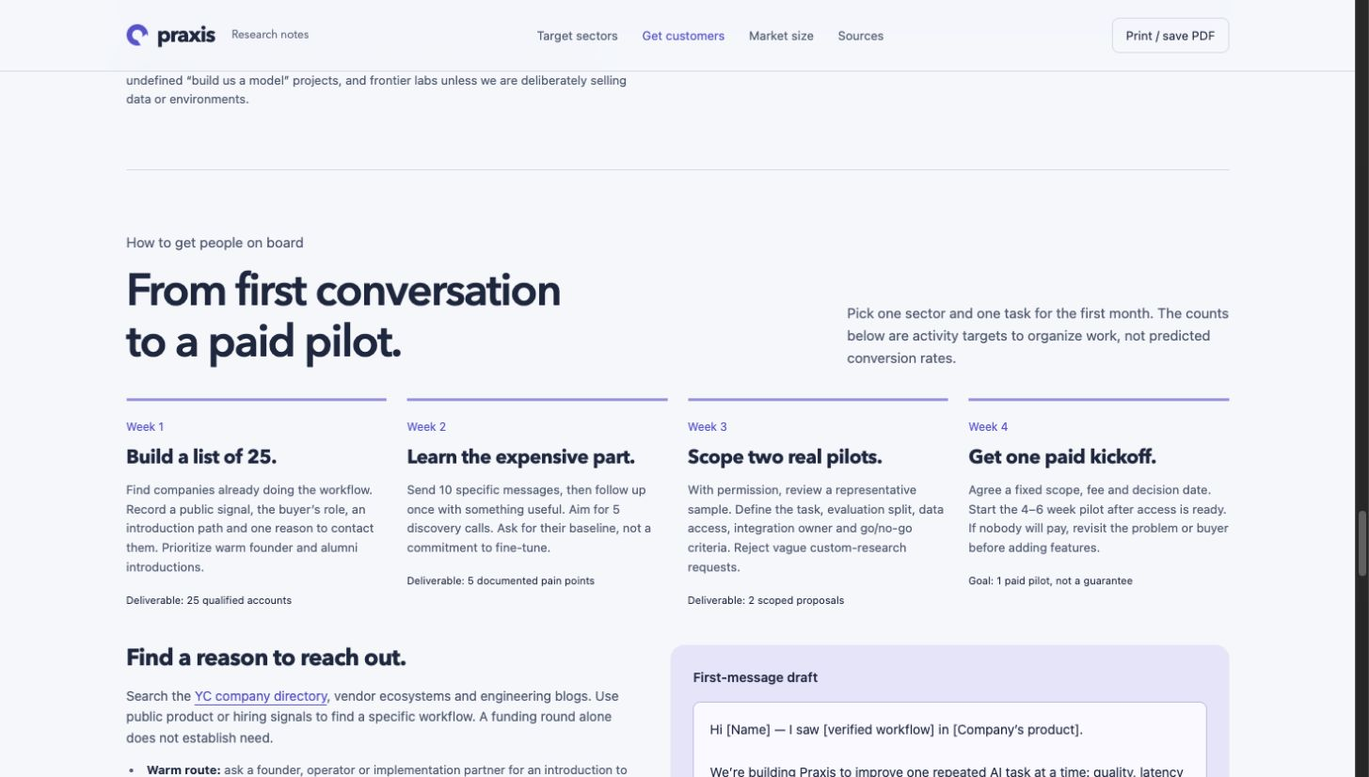
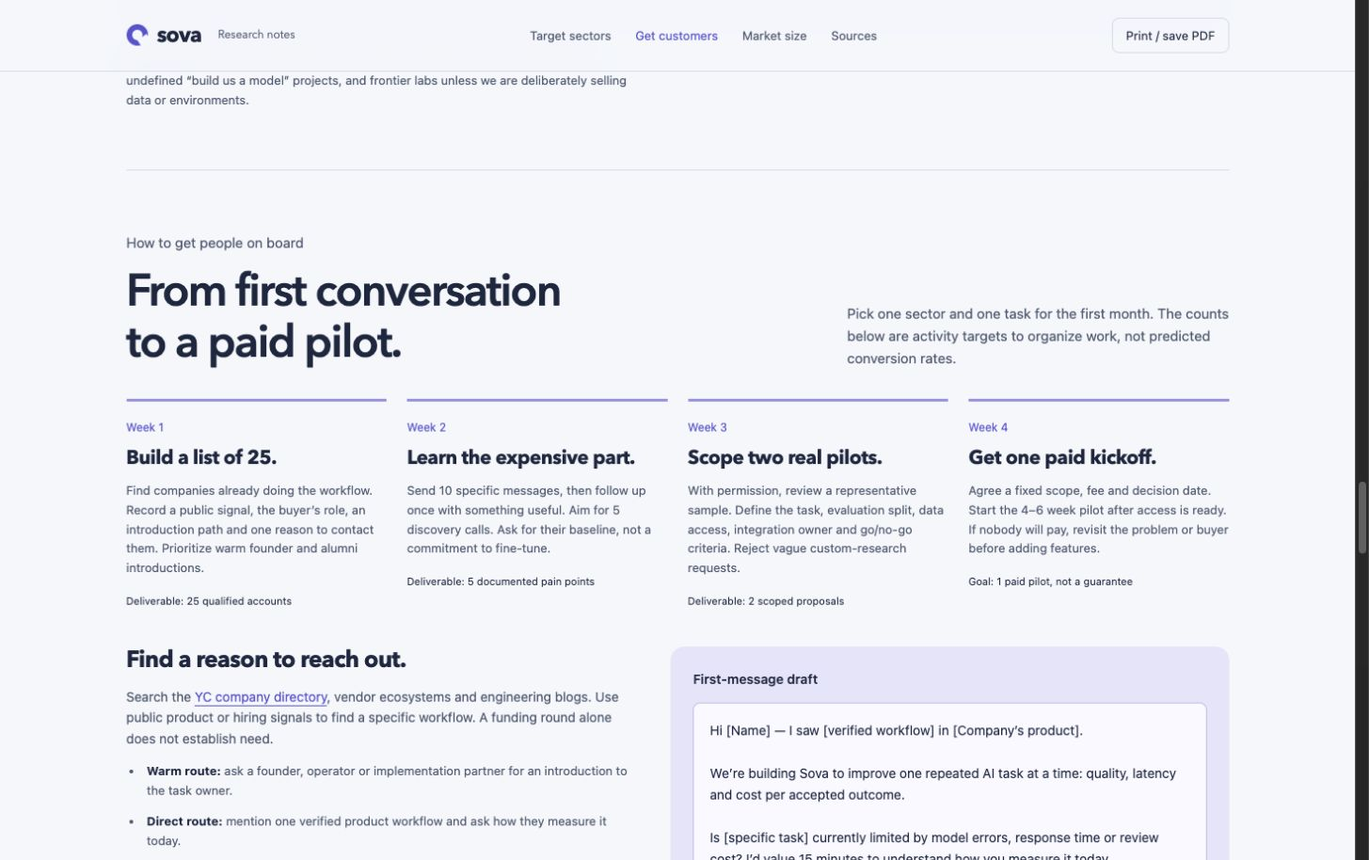
Correct research and outreach branding to Sova

diff --git a/Research/rl-post-training-2026-10-31/index.html b/Research/rl-post-training-2026-10-31/index.html
@@ -3,7 +3,7 @@
 <head>
 <meta charset="utf-8"><meta name="viewport" content="width=device-width, initial-scale=1">
 <meta name="description" content="A founder's research brief on custom AI models: customers, post-training, market size and unit economics.">
-<title>Praxis — The custom-model opportunity</title>
+<title>Sova — The custom-model opportunity</title>
 <style>
 :root{--paper:#f6f8fc;--white:#fff;--ink:#202b49;--muted:#5a657d;--accent:#6657d5;--lilac:#e9e7fa;--mint:#d6eadf;--peach:#f3ded2;--line:#d9deea;--display:'Avenir Next','Segoe UI',sans-serif;--body:-apple-system,BlinkMacSystemFont,'Segoe UI',sans-serif}
 *{box-sizing:border-box}html{scroll-behavior:smooth;scroll-padding-top:100px}body{margin:0;background:var(--paper);color:var(--ink);font-family:var(--body);font-size:16px;line-height:1.6}button,input,select{font:inherit}button,a,input,select{-webkit-tap-highlight-color:transparent}a{color:var(--accent);text-underline-offset:4px}a:hover{text-decoration-thickness:2px}button{cursor:pointer}button:focus-visible,a:focus-visible,input:focus-visible,select:focus-visible,summary:focus-visible{outline:3px solid var(--accent);outline-offset:4px}button{color:inherit}h1,h2,h3,h4,p{margin:0}h1,h2,h3,h4{font-family:var(--display);line-height:1.14}h1{font-size:clamp(46px,5.7vw,80px);font-weight:600;letter-spacing:-3.4px}h2{font-size:clamp(32px,3.4vw,48px);font-weight:600;letter-spacing:-1.7px}h3{font-size:25px;letter-spacing:-.7px}h4{font-size:18px}p{max-width:68ch}svg{display:block;max-width:100%}.wrap{max-width:1272px;padding:0 44px;margin:auto}.skip{position:absolute;top:-80px;left:10px;background:white;padding:12px;z-index:100}.skip:focus{top:8px}.topbar{position:sticky;top:0;z-index:20;background:rgba(246,248,252,.96);border-bottom:1px solid var(--line);backdrop-filter:blur(15px)}.nav{height:76px;display:flex;align-items:center;justify-content:space-between;gap:24px}.brand{display:flex;align-items:center;gap:10px;text-decoration:none;color:var(--ink);font-family:var(--display);font-size:23px;font-weight:650;letter-spacing:-1px}.brand-mark{width:23px;height:23px;border:6px solid var(--accent);border-radius:50%;position:relative}.brand-mark:after{content:'';position:absolute;right:-8px;bottom:-5px;background:var(--paper);width:12px;height:9px;transform:rotate(-35deg)}.navlinks{display:flex;gap:26px}.navlinks a{font-size:13px;color:var(--muted);text-decoration:none}.navlinks a:hover{color:var(--accent)}.quiet-btn{background:transparent;border:1px solid var(--line);border-radius:8px;padding:8px 14px;font-size:13px}.quiet-btn:hover{background:var(--lilac)}.meta{font-size:13px;color:var(--muted)}.hero{padding:68px 0 42px}.hero-top{display:flex;justify-content:space-between;gap:16px;margin-bottom:30px}.hero-grid{display:grid;grid-template-columns:1.03fr 1fr;gap:52px;align-items:center}.hero-copy>p{font-size:18px;color:var(--muted);line-height:1.65;margin-top:25px;max-width:440px}.hero-link{display:inline-flex;margin-top:28px;background:var(--ink);color:white;padding:12px 20px;text-decoration:none;border-radius:8px;font-size:14px}.hero-link:hover{background:var(--accent)}.hero-art{background:var(--lilac);border-radius:24px;padding:25px 22px 18px;overflow:hidden}.art-top{display:flex;justify-content:space-between;align-items:center;gap:15px;margin-bottom:10px}.art-top span:first-child{font-weight:600;font-size:14px}.pill{display:inline-block;background:white;color:var(--accent);border-radius:20px;font-size:11px;padding:4px 10px}.art-foot{font-size:12px;color:#535b79;line-height:1.5;margin-top:5px}.thesis{display:grid;grid-template-columns:190px 1fr;gap:34px;border-top:1px solid var(--line);margin-top:44px;padding-top:22px}.thesis strong{font-size:13px;color:var(--accent);font-weight:600}.thesis p{font-size:19px;line-height:1.5;max-width:780px}.section{padding:65px 0;border-top:1px solid var(--line);scroll-margin-top:82px}.section-head{display:flex;justify-content:space-between;align-items:flex-end;gap:32px;margin-bottom:32px}.section-head p{font-size:15px;color:var(--muted);max-width:410px}.section-kicker{font-size:13px;color:var(--accent);margin-bottom:14px}.references{display:grid;grid-template-columns:repeat(3,1fr);gap:0;background:white;border:1px solid var(--line);border-radius:16px;overflow:hidden}.reference{padding:28px}.reference+.reference{border-left:1px solid var(--line)}.reference h3{margin-bottom:5px}.reference .sub{font-size:13px;color:var(--accent);margin-bottom:20px}.reference p{font-size:14px;color:var(--muted)}.reference .lesson{margin-top:20px;padding-top:18px;border-top:1px solid var(--line);color:var(--ink)}.reference>a{font-size:12px;display:inline-block;margin-top:18px}.small-note{font-size:12px;color:var(--muted);line-height:1.6;margin-top:15px}.buyer-shell{display:grid;grid-template-columns:290px 1fr;gap:35px}.buyer-tabs{display:flex;flex-direction:column;gap:8px}.buyer-tab{border:1px solid transparent;text-align:left;padding:17px 18px;border-radius:10px;background:transparent}.buyer-tab strong{display:block;font-size:15px;font-weight:600}.buyer-tab span{font-size:12px;display:block;color:var(--muted);margin-top:3px}.buyer-tab[aria-pressed=true]{background:var(--ink);color:white}.buyer-tab[aria-pressed=true] span{color:#cdd4e6}.buyer-tab:hover:not([aria-pressed=true]){background:white;border-color:var(--line)}.buyer-panel{background:white;border:1px solid var(--line);border-radius:18px;padding:30px;min-height:470px}.buyer-panel .position{font-size:12px;color:var(--accent);margin-bottom:10px}.buyer-panel h3{font-size:30px;max-width:560px}.buyer-summary{font-size:15px;color:var(--muted);margin:14px 0 25px}.buyer-details{display:grid;grid-template-columns:1fr 1fr;gap:24px 34px}.detail-label{font-size:12px;color:var(--muted);margin-bottom:5px}.buyer-details p:not(.detail-label){font-size:14px;line-height:1.55}.buyer-bottom{background:#eef3f0;border-radius:9px;padding:15px 18px;font-size:13px;margin-top:26px}.filter-note{display:flex;gap:12px;align-items:flex-start;padding:20px 0 0;font-size:13px;color:var(--muted)}.filter-note strong{color:var(--ink);white-space:nowrap}.market{background:white;border:1px solid var(--line);border-radius:20px;padding:30px}.scenario-top{display:flex;align-items:center;justify-content:space-between;gap:20px;margin-bottom:24px}.warning-label{display:flex;align-items:center;gap:8px;font-size:12px;color:#635325}.warning-label:before{content:'';width:7px;height:7px;border-radius:50%;background:#b19a54}.presets{display:flex;gap:5px;padding:4px;background:var(--paper);border:1px solid var(--line);border-radius:9px}.presets button{font-size:12px;background:transparent;border:0;border-radius:5px;padding:6px 12px}.presets button[aria-pressed=true]{background:white;color:var(--accent);box-shadow:0 1px 4px #202b4915}.market-grid{display:grid;grid-template-columns:310px 1fr;gap:45px}.controls{display:flex;flex-direction:column;gap:22px}.control label{display:block;font-size:13px;font-weight:500}.control .label-line{display:flex;justify-content:space-between;align-items:center;gap:12px}.control output{font-variant-numeric:tabular-nums;color:var(--accent);font-size:14px;font-weight:600}.control input[type=range]{width:100%;accent-color:var(--accent);height:24px;cursor:pointer;margin:8px 0 0}.control small{display:block;font-size:11px;color:var(--muted);line-height:1.5}.market-results{min-width:0}.tam-total{display:flex;align-items:baseline;gap:13px}.tam-total strong{font-family:var(--display);font-size:60px;line-height:1.15;font-weight:600;letter-spacing:-2px;font-variant-numeric:tabular-nums}.tam-total span{font-size:13px;color:var(--muted)}.formula{color:var(--muted);font-size:12px;margin-top:5px}.market-results svg{width:100%;height:auto;margin:14px 0 3px}.metrics{display:grid;grid-template-columns:1fr 1fr;gap:20px}.metric{border-top:1px solid var(--line);padding-top:15px}.metric>span{font-size:12px;color:var(--muted);display:block}.metric strong{font-family:var(--display);font-size:29px;font-weight:600;letter-spacing:-.7px}.metric small{font-size:11px;color:var(--muted);display:block}.market-footer{display:flex;justify-content:space-between;align-items:center;gap:20px;border-top:1px solid var(--line);padding-top:22px;margin-top:24px}.market-footer p{font-size:12px;max-width:610px;color:var(--muted)}.actions{display:flex;gap:8px;flex-shrink:0}.text-btn{font-size:12px;border:0;background:transparent;padding:5px;color:var(--accent);text-decoration:underline;text-underline-offset:4px}.anchor-row{display:grid;grid-template-columns:190px 190px 1fr;gap:28px;margin-top:25px;padding:24px 0}.anchor-num{font-size:30px;font-family:var(--display);font-weight:500;letter-spacing:-1px}.anchor-row p{font-size:12px;color:var(--muted)}.anchor-explain{border-left:1px solid var(--line);padding-left:28px}.anchor-explain strong{font-size:13px;font-weight:600}.validation{font-size:13px;color:var(--muted);border-top:1px solid var(--line);padding-top:18px}.validation strong{color:var(--ink)}.economics-grid{display:grid;grid-template-columns:1.1fr .9fr;gap:40px;align-items:start}.chart-box{background:#edf2f4;border-radius:18px;padding:25px}.chart-label{display:flex;justify-content:space-between;align-items:center;font-size:12px;color:var(--muted)}.chart-box svg{width:100%;margin-top:18px}.econ-form{display:grid;grid-template-columns:1fr 1fr;gap:20px}.econ-field label{display:block;font-size:12px;color:var(--muted);margin-bottom:7px}.econ-field input{width:100%;border:1px solid var(--line);background:white;border-radius:8px;padding:11px 12px;color:var(--ink);font-size:16px}.break-even{grid-column:1/-1;border-top:1px solid var(--line);padding-top:20px}.break-even strong{font-size:36px;line-height:1.25;font-family:var(--display);font-weight:600;letter-spacing:-1px;display:block}.break-even span{display:block;font-size:13px;color:var(--muted);margin-top:7px}.econ-notes{font-size:12px;color:var(--muted);margin-top:20px}.offer{display:grid;grid-template-columns:1fr 1.4fr;background:var(--lilac);border-radius:20px;overflow:hidden}.offer-copy{padding:32px}.offer-copy h3{font-size:31px;max-width:300px}.offer-copy p{font-size:14px;color:var(--muted);margin-top:15px}.offer-steps{background:#f0effa;padding:30px 35px}.offer-step{display:grid;grid-template-columns:26px 1fr;gap:18px;padding:15px 0}.offer-step+.offer-step{border-top:1px solid #d4d0ed}.step-no{color:var(--accent);font-size:14px}.offer-step h4{font-size:16px;margin-bottom:5px}.offer-step p{font-size:13px;color:var(--muted)}.bad-fit{margin-top:22px;font-size:13px;color:var(--muted)}.bad-fit strong{color:var(--ink)}.funding-table{width:100%;border-collapse:collapse;text-align:left;font-size:14px}.funding-table th{color:var(--muted);font-weight:400;font-size:12px;border-bottom:1px solid var(--line);padding:12px 18px 12px 0}.funding-table td{padding:20px 22px 20px 0;border-bottom:1px solid var(--line);vertical-align:top}.funding-table td:nth-child(2){font-size:23px;font-family:var(--display);white-space:nowrap}.funding-table small{display:block;font-size:11px;color:var(--muted)}.funding-table td:first-child{font-weight:600;width:23%}.funding-table td:last-child{color:var(--muted)}details{border-top:1px solid var(--line);padding:17px 0}summary{cursor:pointer;font-size:15px;font-weight:500}details p{font-size:13px;margin-top:12px;color:var(--muted)}.source-list{display:grid;grid-template-columns:1fr 1fr;gap:10px 30px;margin-top:15px;font-size:13px}.source-list a{display:block}.source-list small{color:var(--muted);font-size:11px}.footer{border-top:1px solid var(--line);padding:25px 0 35px;color:var(--muted);font-size:12px}.footer .wrap{display:flex;justify-content:space-between;gap:20px}.toast{position:fixed;bottom:22px;left:50%;transform:translateX(-50%);padding:12px 20px;border-radius:9px;background:var(--ink);color:white;font-size:13px;z-index:50;max-width:90vw;box-shadow:0 6px 25px #202b4920}.toast[hidden]{display:none}.table-scroll{overflow:auto}noscript p{background:var(--peach);padding:15px}
@@ -25,7 +25,7 @@
 </head>
 <body>
 <a class="skip" href="#main">Skip to content</a>
-<header class="topbar"><div class="wrap nav"><a class="brand" href="#main" aria-label="Praxis research home"><span class="brand-mark" aria-hidden="true"></span>praxis<span style="font-size:12px;font-weight:400;letter-spacing:0;color:var(--muted);margin-left:8px">Research notes</span></a><nav class="navlinks" aria-label="Page sections"><a href="#sectors">Target sectors</a><a href="#onboard">Get customers</a><a href="#market">Market size</a><a href="#sources">Sources</a></nav><button class="quiet-btn" id="print">Print / save PDF</button></div></header>
+<header class="topbar"><div class="wrap nav"><a class="brand" href="#main" aria-label="Sova research home"><span class="brand-mark" aria-hidden="true"></span>sova<span style="font-size:12px;font-weight:400;letter-spacing:0;color:var(--muted);margin-left:8px">Research notes</span></a><nav class="navlinks" aria-label="Page sections"><a href="#sectors">Target sectors</a><a href="#onboard">Get customers</a><a href="#market">Market size</a><a href="#sources">Sources</a></nav><button class="quiet-btn" id="print">Print / save PDF</button></div></header>
 <main id="main" class="wrap">
 <noscript><p>Enable JavaScript to explore customer profiles and change the market and payback assumptions. The default scenario and research remain readable below.</p></noscript>
 <section class="hero">
@@ -74,7 +74,7 @@
 <div class="launch-plan"><article><p class="plan-week">Week 1</p><h3>Build a list of 25.</h3><p>Find companies already doing the workflow. Record a public signal, the buyer’s role, an introduction path and one reason to contact them. Prioritize warm founder and alumni introductions.</p><span>Deliverable: 25 qualified accounts</span></article><article><p class="plan-week">Week 2</p><h3>Learn the expensive part.</h3><p>Send 10 specific messages, then follow up once with something useful. Aim for 5 discovery calls. Ask for their baseline, not a commitment to fine-tune.</p><span>Deliverable: 5 documented pain points</span></article><article><p class="plan-week">Week 3</p><h3>Scope two real pilots.</h3><p>With permission, review a representative sample. Define the task, evaluation split, data access, integration owner and go/no-go criteria. Reject vague custom-research requests.</p><span>Deliverable: 2 scoped proposals</span></article><article><p class="plan-week">Week 4</p><h3>Get one paid kickoff.</h3><p>Agree a fixed scope, fee and decision date. Start the 4–6 week pilot after access is ready. If nobody will pay, revisit the problem or buyer before adding features.</p><span>Goal: 1 paid pilot, not a guarantee</span></article></div>
 <div class="outreach-grid"><div><h3>Find a reason to reach out.</h3><p class="outreach-intro">Search the <a href="https://www.ycombinator.com/companies" target="_blank" rel="noopener">YC company directory</a>, vendor ecosystems and engineering blogs. Use public product or hiring signals to find a specific workflow. A funding round alone does not establish need.</p><ul class="discovery-list"><li><strong>Warm route:</strong> ask a founder, operator or implementation partner for an introduction to the task owner.</li><li><strong>Direct route:</strong> mention one verified product workflow and ask how they measure it today.</li><li><strong>Proof route:</strong> share a reproducible benchmark with its limitations. Do not claim Rig results until it has been run and evaluated.</li><li><strong>Partner route:</strong> work with agencies or integrators already trusted by the buyer. Agree scope and responsibilities before customer delivery.</li></ul><a class="quiet-btn tracker-link" href="prospect-tracker.csv" download>Download prospect tracker</a> <a class="tracker-link" href="#video-outreach">Plan your outreach video →</a></div><div class="message-box"><label for="outreach-draft">First-message draft</label><textarea id="outreach-draft" rows="11" spellcheck="true">Hi [Name] — I saw [verified workflow] in [Company’s product].
 
-We’re building Praxis to improve one repeated AI task at a time: quality, latency and cost per accepted outcome.
+We’re building Sova to improve one repeated AI task at a time: quality, latency and cost per accepted outcome.
 
 Is [specific task] currently limited by model errors, response time or review cost? I’d value 15 minutes to understand how you measure it today.
 
@@ -86,8 +86,8 @@ If there’s a fit, we can scope a paid benchmark-and-adaptation pilot against y
 <div class="section-head"><div><p class="section-kicker">Founder-led outreach</p><h2>One workflow.<br>One useful video.</h2></div><p>Start with support-agent SaaS. Speak to the founder, CTO or AI lead. Show a specific experiment they can judge in 90 seconds.</p></div>
 <p>Our starting hypothesis: ten researched accounts, three personalized videos, then revise the pitch from what people actually say. Prioritize a repeated task, a reachable owner, usable examples and a measurable reason to improve.</p>
 <div class="video-board" aria-label="Video storyboard"><article class="video-beat"><span>00–15 seconds</span><h3>Their workflow</h3><p>Show one feature on their public product page. Explain why you picked it.</p></article><article class="video-beat"><span>15–35 seconds</span><h3>Three cases</h3><p>Draw routine, ambiguous and must-escalate examples. Label them illustrative.</p></article><article class="video-beat"><span>35–65 seconds</span><h3>The experiment</h3><p>Compare the baseline and candidate on accepted quality, latency and total cost.</p></article><article class="video-beat"><span>65–90 seconds</span><h3>One small ask</h3><p>Ask whether this is a priority and offer 15 minutes with the workflow owner.</p></article></div>
-<div class="video-script"><h3>What to say on camera</h3><p>Hey [Name], I’m Ani, building Praxis. I saw that [Company] handles [specific workflow], and I put together one idea for that part of the product.</p><p>On this board are three illustrative cases: a routine request, an ambiguous one, and one that should go to a human. These are examples I made—not results from your system.</p><p>The question I’d test is whether a smaller specialist model can handle the routine cases while preserving quality and escalating the rest. I’d compare it with your existing setup and a simpler prompt or routing change, measuring accepted outcomes, latency and total cost including review.</p><p>If you have corrected examples, fine-tuning could be worth testing. For a multi-step task with a reliable success check, we could assess RL. We’d choose after establishing the baseline.</p><p>Is this workflow painful enough to explore? If so, would you be open to a 15-minute call with whoever owns it?</p></div>
-<p class="small-note">Put “Illustrative examples · benchmark not run” on the board. This is a proposed experiment; no Praxis performance improvement has been measured for this outreach.</p>
+<div class="video-script"><h3>What to say on camera</h3><p>Hey [Name], I’m Ani, building Sova. We’re building specialist models for recurring business workflows, with customer-owned weights and deployment on infrastructure you control. I saw that [Company] handles [specific workflow], and I put together one experiment for that part of the product.</p><p>On this board are three illustrative cases: a routine request, an ambiguous one, and one that should go to a human. These are examples I made—not results from your system.</p><p>The question I’d test is whether a smaller specialist model can handle the routine cases while preserving quality and escalating the rest. I’d compare it with your existing setup and a simpler prompt or routing change, measuring accepted outcomes, latency and total cost including review.</p><p>If you have corrected examples, fine-tuning could be worth testing. For a multi-step task with a reliable success check, we could assess RL. We’d choose after establishing the baseline.</p><p>Is this workflow painful enough to explore? If so, would you be open to a 15-minute call with whoever owns it?</p></div>
+<p class="small-note">Put “Illustrative examples · benchmark not run” on the board. This is a proposed experiment; no Sova performance improvement has been measured for this outreach.</p>
 <details class="video-examples"><summary>Three companies to research, and the angle for each</summary><ul class="discovery-list"><li><strong><a href="https://www.eesel.ai/" target="_blank" rel="noopener">eesel AI</a> — support agents:</strong> its site describes ticket categorization, replies and escalation. Explore one intent-and-escalation evaluation with a technical owner.</li><li><strong><a href="https://www.kapa.ai/" target="_blank" rel="noopener">Kapa</a> — knowledge and support agents:</strong> explore how retrieval failures, answer grounding and abstention are measured. Establish whether adaptation would address the actual problem.</li><li><strong><a href="https://nanonets.com/" target="_blank" rel="noopener">Nanonets</a> — document workflows:</strong> discuss one document family, field correctness and exception review with the relevant ML or product lead.</li></ul><p class="small-note">Public workflow relevance only. These are not qualified leads or confirmed buyers. Established model teams may have little need for outside help; ask about a specific gap. Product sources checked 31 October 2026.</p></details>
 <details><summary>The message to send with the video</summary><p>Hey [Name] — I saw [specific public feature] and recorded a 75-second walkthrough of one evaluation I’d try: [link]. It covers [task] and what we’d measure before deciding whether a specialist model is worthwhile. Is this on your roadmap, or does someone else own it?</p></details>
 <details><summary>What happens after they reply?</summary><p>Ask which metric hurts, who owns it and what volumes they see. Use a short fit call to establish economics and data access, then scope a paid diagnostic or pilot. If there is no reply, follow up once after roughly 4–5 business days with an actual useful artifact. Stop if there is no interest.</p></details>
@@ -95,7 +95,7 @@ If there’s a fit, we can scope a paid benchmark-and-adaptation pilot against y
 </section>
 <section class="section" id="funding"><div class="section-head"><div><p class="section-kicker">Capital behind the category</p><h2>Funding is a signal.<br>The business models differ.</h2></div><p>Selected announcements from the research. They support interest in the stack, not a valuation or revenue forecast for us.</p></div><div class="table-scroll"><table class="funding-table"><thead><tr><th scope="col">Company</th><th scope="col">Announced financing</th><th scope="col">What it is building</th></tr></thead><tbody><tr><td><a href="https://www.appliedcompute.com/company/fundraise" target="_blank" rel="noopener">Applied Compute</a><small>8 April 2026</small></td><td>$80M<small>New financing</small></td><td>Enterprise-specific agents trained on company workflows, with deployment and continued improvement.</td></tr><tr><td><a href="https://bespokelabs.ai/blog/bespoke-labs-raises-40m-to-build-environments-that-enable-reliable-agents" target="_blank" rel="noopener">Bespoke Labs</a><small>6 July 2026</small></td><td>$40M<small>Seed + Series A combined</small></td><td>Data curation, post-training and RL environments; a mix of research, infrastructure and enterprise work.</td></tr><tr><td><a href="https://primeintellect.one/blog/series-a" target="_blank" rel="noopener">Prime Intellect</a><small>8 July 2026</small></td><td>$130M<small>Series A</small></td><td>Compute and infrastructure for custom models, RL, evaluation and deployment.</td></tr></tbody></table></div><p class="small-note">Do not add valuations, cumulative totals and new rounds together. This selected financing table does not measure TAM.</p></section>
 <section class="section" id="sources"><div class="section-head"><div><p class="section-kicker">Evidence & open questions</p><h2>Keep the claims traceable.</h2></div><p>Company descriptions and research are sourced. Our customer prioritization, price hypotheses and editable scenarios are analysis.</p></div><details open><summary>Primary sources</summary><div class="source-list"><div><a href="https://www.dvarlabs.ai/" target="_blank" rel="noopener">Dvar: approach and deployment</a><small>Company positioning; banking example is supervised training.</small></div><div><a href="https://hyde.ai/" target="_blank" rel="noopener">Hyde: Campfire and embedded teams</a><small>Company product description, not independent performance validation.</small></div><div><a href="https://isoquant.ai/companies" target="_blank" rel="noopener">Isoquant: workload optimization</a><small>Specialists, model engineering and serving.</small></div><div><a href="https://menlovc.com/perspective/2025-the-state-of-generative-ai-in-the-enterprise/" target="_blank" rel="noopener">Menlo: 2025 enterprise AI report</a><small>Broad spending estimates; not this business’s TAM.</small></div><div><a href="https://arxiv.org/abs/2305.18290" target="_blank" rel="noopener">Direct Preference Optimization</a><small>Preference learning differs from an online RL loop.</small></div><div><a href="https://arxiv.org/html/2501.12948v1" target="_blank" rel="noopener">DeepSeek-R1 technical report</a><small>SFT and RL can be stages in the same post-training pipeline.</small></div></div></details><details><summary>What still needs customer evidence?</summary><p>The eligible buyer count, annual contract value, delivery effort, renewal rate and fully loaded savings. No customer pipeline, audited vendor margins or standalone custom-model TAM has been established here. The year-three capacity scenario is an annual revenue level, not cumulative sales.</p></details><details><summary>How should we defend this against alternatives?</summary><p>Compare against a better prompt, retrieval, a cheaper API, an existing fine-tuning platform and an internal ML team. Our proposed advantage must be repeatable evaluation, domain data access, delivery speed or deployment economics. Access to an open model alone is not enough.</p></details><details><summary>Open the complete research pack</summary><p><a href="DEEP_DIVE.md">Business and technical deep dive</a> · <a href="COMPANIES.md">Company diligence</a> · <a href="TWEETS.md">Tweet drafts</a> · <a href="facts.csv" download>Fact ledger CSV</a> · <a href="BOARDS.md">Paper-chart plans</a></p></details></section>
-</main><footer class="footer"><div class="wrap"><p>Praxis / Founder research / 31 October 2026</p><p>Research brief. Scenarios are illustrative. No financial forecast implied.</p></div></footer><div class="toast" id="toast" role="status" hidden></div>
+</main><footer class="footer"><div class="wrap"><p>Sova / Founder research / 31 October 2026</p><p>Research brief. Scenarios are illustrative. No financial forecast implied.</p></div></footer><div class="toast" id="toast" role="status" hidden></div>
 <script>
 (()=>{'use strict';
 const $=id=>document.getElementById(id), number=n=>new Intl.NumberFormat('en-US').format(n), currency=n=>'$'+number(n);
@@ -104,15 +104,15 @@ let toastTimer;function toast(message){$('toast').textContent=message;$('toast')
 const profiles={saas:{position:'Best first wedge • our recommendation',title:'Their model bill grows with every customer.',summary:'AI software vendors doing support, document processing or search already have recurring tasks. Improve one step inside their product.',owner:'CTO or VP Engineering; head of AI as the technical champion.',product:'A specialist model, evaluation suite, serving endpoint and ongoing improvement.',trigger:'Inference cost is hurting margins, latency blocks adoption, or the current model fails a repeatable task.',data:'Usable task examples, representative traffic, rights to use the data and a clear success metric.',proof:'Lower fully loaded cost per accepted task, at the agreed quality and p95 latency.'},ops:{position:'Second wedge • prove operational impact',title:'Every manual handoff has a cost.',summary:'Support platforms, BPOs and internal operations teams can buy better routing, extraction and policy decisions. The workflow owner matters as much as the ML team.',owner:'Head of Operations or Customer Support, with an engineering owner for integration.',product:'A model integrated into the existing queue or document workflow, with escalation to humans.',trigger:'High rework, routing errors, manual review costs or a backlog that current automation cannot handle.',data:'Resolved cases, labels, policy versions, exception records and an agreed review process.',proof:'Fewer manual touches and lower cost per resolved case, with error and escalation rates visible.'},finance:{position:'Selective entry • domain access is essential',title:'Generic answers miss domain-specific details.',summary:'Fintech product teams and financial-service operations can need intent routing, document extraction or credit-document analysis. Start with assistive, bounded work.',owner:'Head of AI or CTO plus the operations sponsor; security and risk teams influence approval.',product:'A domain specialist with traceable evaluation, controlled deployment and human review for exceptions.',trigger:'Domain or language errors, expensive document processing, or customer requirements for local/private deployment.',data:'Representative documents, authorized data use, expert grading and clear boundaries for automated decisions.',proof:'Domain-specific acceptance on a held-out set, plus integration and deployment requirements satisfied.'},enterprise:{position:'Expansion path • heavier delivery work',title:'They want control over a critical workflow.',summary:'Large enterprises may buy a combination of specialist models, integration and private deployment. Expect customer-specific systems and approval requirements.',owner:'CIO, CTO or Head of AI; a business-unit owner must fund the use case.',product:'An embedded delivery engagement followed by a managed model and improvement contract.',trigger:'A strategic workflow cannot meet quality, ownership or deployment needs with the current stack.',data:'An accountable sponsor, a data-access path, experts, infrastructure access and measurable business value.',proof:'An operational result that survives security review and ongoing support costs, not just a benchmark.'},labs:{position:'Adjacent market • a different product',title:'They buy capability-building inputs.',summary:'Frontier labs can buy expert tasks, verifiers and RL environments. That is closer to a data or environment business than the enterprise specialist-model offer.',owner:'Post-training researchers, data leads or research procurement.',product:'Accepted datasets, task suites, reproducible environments or specialized evaluation work.',trigger:'A capability gap or training campaign needs high-quality tasks the lab does not already have.',data:'Expert access, rigorous QA, reproducibility and evidence that tasks transfer beyond the training environment.',proof:'Acceptance rate, repeat orders and held-out capability gains. Treat buyer concentration as a business constraint.'}};
 document.querySelectorAll('[data-buyer]').forEach(btn=>btn.addEventListener('click',()=>{document.querySelectorAll('[data-buyer]').forEach(b=>b.setAttribute('aria-pressed',String(b===btn)));const p=profiles[btn.dataset.buyer];['position','title','summary','owner','product','trigger','data'].forEach(key=>$('buyer-'+key).textContent=p[key]);$('buyer-proof').replaceChildren(Object.assign(document.createElement('strong'),{textContent:'Proof that wins the pilot: '}),document.createTextNode(p.proof));}));
 const keys=['buyers','acv','reachable','capacity'];const presets={narrow:[500,60000,20,8],focused:[2500,120000,20,12],broad:[10000,180000,25,30]};let model;
-function marketUpdate(persist=true){const [buyers,acv,reachable,capacity]=keys.map(k=>Number($(k).value));const serviceable=Math.floor(buyers*reachable/100),active=Math.min(capacity,serviceable),tam=buyers*acv,sam=serviceable*acv,som=active*acv;model={buyers,acv,reachable,capacity,serviceable,active,tam,sam,som};$('buyers-out').textContent=number(buyers);$('acv-out').textContent=currency(acv);$('reachable-out').textContent=reachable+'%';$('capacity-out').textContent=number(capacity);$('tam-value').textContent=short(tam);$('tam-formula').textContent=number(buyers)+' companies × '+currency(acv)+' / year';['tam','sam','som'].forEach(k=>{$(k+'-chart-value').textContent=short(model[k]);$(k+'-value').textContent=short(model[k]);$(k+'-bar').setAttribute('width',390*model[k]/tam)});$('sam-detail').textContent=number(serviceable)+' companies fit the serviceable scope';$('som-detail').textContent=number(active)+' active customers'+(active<capacity?' (capped at serviceable market)':' at the same annual fee');document.querySelectorAll('[data-preset]').forEach(b=>b.setAttribute('aria-pressed',String(presets[b.dataset.preset].every((v,i)=>v===Number($(keys[i]).value)))));if(persist){try{localStorage.setItem('praxis-market-v1',JSON.stringify(keys.map(k=>Number($(k).value))))}catch{}}}
+function marketUpdate(persist=true){const [buyers,acv,reachable,capacity]=keys.map(k=>Number($(k).value));const serviceable=Math.floor(buyers*reachable/100),active=Math.min(capacity,serviceable),tam=buyers*acv,sam=serviceable*acv,som=active*acv;model={buyers,acv,reachable,capacity,serviceable,active,tam,sam,som};$('buyers-out').textContent=number(buyers);$('acv-out').textContent=currency(acv);$('reachable-out').textContent=reachable+'%';$('capacity-out').textContent=number(capacity);$('tam-value').textContent=short(tam);$('tam-formula').textContent=number(buyers)+' companies × '+currency(acv)+' / year';['tam','sam','som'].forEach(k=>{$(k+'-chart-value').textContent=short(model[k]);$(k+'-value').textContent=short(model[k]);$(k+'-bar').setAttribute('width',390*model[k]/tam)});$('sam-detail').textContent=number(serviceable)+' companies fit the serviceable scope';$('som-detail').textContent=number(active)+' active customers'+(active<capacity?' (capped at serviceable market)':' at the same annual fee');document.querySelectorAll('[data-preset]').forEach(b=>b.setAttribute('aria-pressed',String(presets[b.dataset.preset].every((v,i)=>v===Number($(keys[i]).value)))));if(persist){try{localStorage.setItem('sova-market-v1',JSON.stringify(keys.map(k=>Number($(k).value))))}catch{}}}
 keys.forEach(k=>$(k).addEventListener('input',()=>marketUpdate()));document.querySelectorAll('[data-preset]').forEach(btn=>btn.addEventListener('click',()=>{presets[btn.dataset.preset].forEach((v,i)=>$(keys[i]).value=v);marketUpdate()}));
-try{const saved=JSON.parse(localStorage.getItem('praxis-market-v1'));if(Array.isArray(saved)&&saved.length===4&&saved.every((v,i)=>Number.isFinite(v)&&v>=Number($(keys[i]).min)&&v<=Number($(keys[i]).max))){saved.forEach((v,i)=>$(keys[i]).value=v)}}catch{}marketUpdate(false);
+try{const saved=JSON.parse(localStorage.getItem('sova-market-v1'));if(Array.isArray(saved)&&saved.length===4&&saved.every((v,i)=>Number.isFinite(v)&&v>=Number($(keys[i]).min)&&v<=Number($(keys[i]).max))){saved.forEach((v,i)=>$(keys[i]).value=v)}}catch{}marketUpdate(false);
 const ns='http://www.w3.org/2000/svg';function svgEl(tag,attrs,text){const el=document.createElementNS(ns,tag);Object.entries(attrs).forEach(([k,v])=>el.setAttribute(k,v));if(text!==undefined)el.textContent=text;return el}
 function roiUpdate(){const inputs=['setup','volume','baseline','specialist'].map(k=>$(k));if(inputs.some(el=>el.value===''||!el.checkValidity())){$('payback').textContent='Check the inputs';$('payback-detail').textContent='Use non-negative costs and a positive task volume.';$('roi-content').replaceChildren();return}const [setup,volume,baseline,specialist]=inputs.map(el=>Number(el.value)),monthly=volume*(baseline-specialist),end=monthly*12-setup,payback=monthly>0?setup/monthly:null;$('payback').textContent=monthly>0?(payback===0?'Immediate':+(payback.toFixed(1))+' months'):'No cost-saving payback';$('payback-detail').textContent=monthly>0?number(Math.ceil(Number((setup/(baseline-specialist)).toPrecision(12))))+' accepted tasks to recover setup cost.':(monthly===0?'Per-task costs are equal; setup is not recovered through savings.':'The new per-task cost is higher. A different benefit must justify the purchase.');const top=Math.max(0,end,-setup,monthly*12)*1.12||1,bottom=Math.min(-setup,end,0)*1.12,range=top-bottom||1,x=m=>64+m/12*508,y=v=>222-(v-bottom)/range*192;const g=$('roi-content');g.replaceChildren();[0,1,2,3,4].forEach(i=>{const v=bottom+(top-bottom)*i/4,yy=y(v);g.append(svgEl('line',{x1:64,y1:yy,x2:572,y2:yy,stroke:'#d4dce0','stroke-width':1}),svgEl('text',{x:55,y:yy+4,'text-anchor':'end',fill:'#5a657d','font-family':'Arial,sans-serif','font-size':10},short(v)))});g.append(svgEl('line',{x1:64,y1:y(0),x2:572,y2:y(0),stroke:'#8c9ba4','stroke-dasharray':'4 4'}));[0,3,6,9,12].forEach(m=>g.append(svgEl('text',{x:x(m),y:246,'text-anchor':'middle',fill:'#5a657d','font-family':'Arial,sans-serif','font-size':11},m===0?'Start':m+' mo')));g.append(svgEl('path',{d:`M${x(0)} ${y(-setup)}L${x(12)} ${y(end)}`,stroke:monthly>0?'#6657d5':'#a35551','stroke-width':3,fill:'none'}),svgEl('circle',{cx:x(12),cy:y(end),r:4,fill:monthly>0?'#6657d5':'#a35551'}));if(payback!==null&&payback<=12){g.append(svgEl('circle',{cx:x(payback),cy:y(0),r:6,fill:'#fff',stroke:'#6657d5','stroke-width':2}),svgEl('text',{x:Math.min(520,Math.max(105,x(payback))),y:Math.max(16,y(0)-15),'text-anchor':'middle',fill:'#6657d5','font-family':'Arial,sans-serif','font-size':11},'Break-even'))}g.append(svgEl('text',{x:64,y:278,fill:'#5a657d','font-family':'Arial,sans-serif','font-size':11},'12-month net savings: '+currency(Math.round(end))));$('roi-title').textContent='Cumulative net savings: '+currency(Math.round(end))+' after twelve months.';}
 ['setup','volume','baseline','specialist'].forEach(k=>$(k).addEventListener('input',roiUpdate));roiUpdate();
 function download(content,type,name){const url=URL.createObjectURL(new Blob([content],{type}));const a=document.createElement('a');a.href=url;a.download=name;document.body.append(a);a.click();a.remove();setTimeout(()=>URL.revokeObjectURL(url),2000);toast('Downloaded '+name)}
-$('save-scenario').addEventListener('click',()=>download(JSON.stringify({title:'Praxis custom-model market scenario',researchDate:'2026-10-31',status:'Illustrative assumptions; not measured TAM or a forecast',currency:'USD',revenueBasis:'Annual recurring platform and service fees; excludes pass-through compute and one-off pilots',horizon:'Capacity scenario: active customers in year three',...model},null,2),'application/json','praxis-market-assumptions.json'));
-$('save-chart').addEventListener('click',()=>{const root=svgEl('svg',{xmlns:ns,width:1200,height:720,viewBox:'0 0 1200 720'});root.append(svgEl('rect',{width:1200,height:720,fill:'#f6f8fc'}));const txt=(x,y,size,text,color='#202b49')=>root.append(svgEl('text',{x,y,'font-family':'Arial,sans-serif','font-size':size,fill:color},text));txt(60,62,17,'Praxis / Custom-model business / 31 October 2026');txt(60,126,42,'Market size starts with buyers.');txt(60,165,20,'Illustrative scenario — not measured market size or a forecast.','#6657d5');const clone=$('market-chart').cloneNode(true);clone.setAttribute('x',60);clone.setAttribute('y',200);clone.setAttribute('width',1080);clone.setAttribute('height',342);clone.querySelectorAll('[id]').forEach(el=>el.removeAttribute('id'));clone.removeAttribute('id');root.append(clone);txt(60,580,18,number(model.buyers)+' companies × '+currency(model.acv)+' annual fee');txt(60,616,16,'Serviceable share: '+model.reachable+'%  |  Capacity: '+number(model.active)+' active customers (year-three scenario)');txt(60,650,14,'Annual platform + service fees; excludes pass-through compute and one-off pilots.');txt(60,680,14,'Assumptions are unvalidated. SAM and capacity are subsets, not additional markets.');download(new XMLSerializer().serializeToString(root),'image/svg+xml','praxis-market-scenario.svg')});
+$('save-scenario').addEventListener('click',()=>download(JSON.stringify({title:'Sova custom-model market scenario',researchDate:'2026-10-31',status:'Illustrative assumptions; not measured TAM or a forecast',currency:'USD',revenueBasis:'Annual recurring platform and service fees; excludes pass-through compute and one-off pilots',horizon:'Capacity scenario: active customers in year three',...model},null,2),'application/json','sova-market-assumptions.json'));
+$('save-chart').addEventListener('click',()=>{const root=svgEl('svg',{xmlns:ns,width:1200,height:720,viewBox:'0 0 1200 720'});root.append(svgEl('rect',{width:1200,height:720,fill:'#f6f8fc'}));const txt=(x,y,size,text,color='#202b49')=>root.append(svgEl('text',{x,y,'font-family':'Arial,sans-serif','font-size':size,fill:color},text));txt(60,62,17,'Sova / Custom-model business / 31 October 2026');txt(60,126,42,'Market size starts with buyers.');txt(60,165,20,'Illustrative scenario — not measured market size or a forecast.','#6657d5');const clone=$('market-chart').cloneNode(true);clone.setAttribute('x',60);clone.setAttribute('y',200);clone.setAttribute('width',1080);clone.setAttribute('height',342);clone.querySelectorAll('[id]').forEach(el=>el.removeAttribute('id'));clone.removeAttribute('id');root.append(clone);txt(60,580,18,number(model.buyers)+' companies × '+currency(model.acv)+' annual fee');txt(60,616,16,'Serviceable share: '+model.reachable+'%  |  Capacity: '+number(model.active)+' active customers (year-three scenario)');txt(60,650,14,'Annual platform + service fees; excludes pass-through compute and one-off pilots.');txt(60,680,14,'Assumptions are unvalidated. SAM and capacity are subsets, not additional markets.');download(new XMLSerializer().serializeToString(root),'image/svg+xml','sova-market-scenario.svg')});
 
 const sectorButtons=document.querySelectorAll('[data-sector-filter]');
 sectorButtons.forEach(btn=>btn.addEventListener('click',()=>{const filter=btn.dataset.sectorFilter;let count=0;document.querySelectorAll('.sector-row').forEach(row=>{row.hidden=filter!=='all'&&row.dataset.tier!==filter;if(!row.hidden)count++});sectorButtons.forEach(b=>b.setAttribute('aria-pressed',String(b===btn)));$('sector-count').textContent=count+' sector'+(count===1?'':'s');}));

diff --git a/Research/rl-post-training-2026-10-31/OUTREACH.md b/Research/rl-post-training-2026-10-31/OUTREACH.md
@@ -1,6 +1,12 @@
-# Praxis: target accounts and video outreach
+# Sova: target accounts and video outreach
 
 Working recommendation · 31 October 2026. Priorities, durations and outreach counts are hypotheses to test. No messages have been sent. No model benchmark has been run for this outreach.
+
+## Sova context
+
+Sova builds workflow-specific models and the infrastructure to evaluate, route and serve them. The intended offer combines customer-owned weights, deployment within the customer’s chosen infrastructure, and measured quality, latency and cost. The technical loop is data → post-training → evaluation → iteration → performance engineering → serving. SFT and RL are methods selected for the task, not the customer-facing product.
+
+Existing project evidence includes the Banking77 triage report. Rig is written but unexecuted; do not present its planned capabilities as measured production results. A prospect-specific benchmark remains to be run.
 
 ## Start with one task and one buyer
 
@@ -35,7 +41,7 @@ Record the relevant browser tab plus your face, or point the camera at a legible
 
 ## Read-aloud script
 
-Hey [Name], I’m Ani, building Praxis. I saw that [Company] handles [specific workflow], and I put together one idea for that part of the product.
+Hey [Name], I’m Ani, building Sova. We’re building specialist models for recurring business workflows, with customer-owned weights and deployment on infrastructure you control. I saw that [Company] handles [specific workflow], and I put together one experiment for that part of the product.
 
 On this board are three illustrative cases: a routine request, an ambiguous one, and one that should go to a human. These are examples I made—not results from your system.
 

diff --git a/README.md b/README.md
@@ -2,7 +2,7 @@
 
 Full project snapshot: [aniiiiXD/sovaaaaaa](https://github.com/aniiiiXD/sovaaaaaa).
 
-The Praxis-branded custom-model market brief is in
+The Sova-branded custom-model market brief is in
 [`Research/rl-post-training-2026-10-31/index.html`](Research/rl-post-training-2026-10-31/index.html).
 Open it directly in a browser; the accompanying research, sources, tweet drafts
 and chart plans live beside it. Its market-size scenarios are illustrative.

diff --git a/Research/rl-post-training-2026-10-31/README.md b/Research/rl-post-training-2026-10-31/README.md
@@ -1,4 +1,4 @@
-# Praxis custom-model market brief
+# Sova custom-model market brief
 
 Open `index.html` in a browser. It is a standalone local page: no build, server, external fonts or JavaScript dependencies are needed. Keep the accompanying Markdown and CSV files next to it for the research links to work. This bundle is versioned in aniiiiXD/sovaaaaaa; a Git push does not establish a live website deployment.
 
